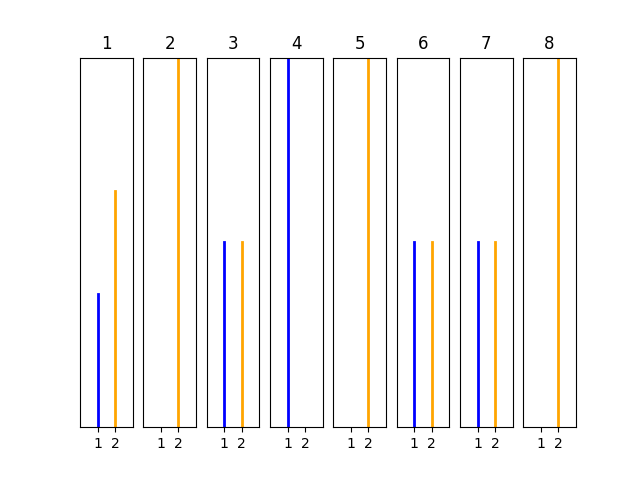
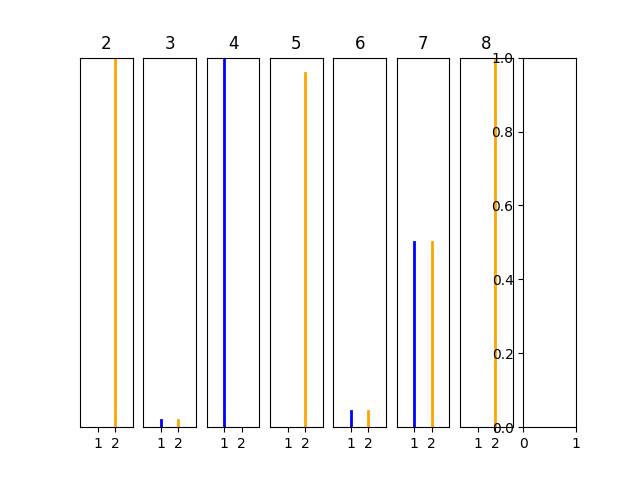
Corrected stats

diff --git a/src/player.py b/src/player.py
@@ -3,13 +3,14 @@ import matplotlib.pyplot as plt
 import progressbar
 import pickle
 import time
+from copy import deepcopy
 
 class cup:
 
-    def __init__(self):
+    def __init__(self,blue=2,yellow=2):
 
-        self.blue = 2
-        self.yellow = 2
+        self.blue = blue
+        self.yellow = blue
 
         return
 
@@ -45,7 +46,7 @@ class game:
 
         self.n_sticks = n_sticks
         self.players = ["computer","trainer"]
-        self.computer = computer_player
+        self.computer = deepcopy(computer_player)
         self.played_numbers = np.zeros(self.n_sticks)
 
         self.check = (self.computer.n_cups == self.n_sticks)
@@ -146,7 +147,7 @@ class game:
         return [new_computer,winner]
     
     
-def train(n_trains:int, n_sticks:int, show_progressbar=True) -> list[player,float]:
+def train(n_trains:int, n_sticks:int, show_progressbar=True, saveplayer=True) -> list[player,float]:
 
     training_player = player(n_cups=n_sticks)
     wins = 0
@@ -190,27 +191,30 @@ def train(n_trains:int, n_sticks:int, show_progressbar=True) -> list[player,floa
 
     fig, axes = plt.subplots(1,training_player.n_cups)
 
-    for i in range(training_player.n_cups):
+    for i in range(training_player.n_cups-1):
         ax = axes[i]
-        ax.plot([1,1],[0,training_player.cups[i].blue/(training_player.cups[i].blue + training_player.cups[i].yellow)],linewidth=2,color='blue')
-        ax.plot([2,2],[0,training_player.cups[i].yellow/(training_player.cups[i].blue + training_player.cups[i].yellow)],linewidth=2,color='orange')
+        ax.plot([1,1],[0,training_player.cups[i+1].blue/(training_player.cups[i].blue + training_player.cups[i].yellow)],linewidth=2,color='blue')
+        ax.plot([2,2],[0,training_player.cups[i+1].yellow/(training_player.cups[i].blue + training_player.cups[i].yellow)],linewidth=2,color='orange')
         ax.set_xlim([0,3])
         ax.xaxis.set_ticks([1,2])
         ax.set_ylim([0,1])
         ax.yaxis.set_ticklabels([])
         ax.yaxis.set_ticks([])
-        ax.set_title(i+1)
+        ax.set_title(i+2)
 
     plt.savefig(f"nn_saves/sticks{n_sticks}_trains{n_trains}_state.png")
+    plt.close()
 
-    with open(f"nn_saves/sticks{n_sticks}_trains{n_trains}.pkl","wb") as f:
-        pickle.dump(training_player,f)
+    if saveplayer:
+
+        with open(f"nn_saves/sticks{n_sticks}_trains{n_trains}.pkl","wb") as f:
+            pickle.dump(training_player,f)
 
     return [training_player,winrate]
 
 if __name__=="__main__":
 
-    train(10,n_sticks=9)
+    train(10,n_sticks=8)
 
 
             

diff --git a/training_stats.py b/training_stats.py
@@ -1,28 +1,35 @@
 import numpy as np
 import matplotlib.pyplot as plt
 
-from src.training_by_hand_utils import train
+from src.player import player, train, game
 
-n_trains = [5,10,20,50,100,200,500]
-n_trainings_per_n_train = 50
-n_sticks = 9
+n_trains = np.arange(1,31)
+n_games = 100
+n_sticks = 8
 
-winrates = np.zeros((len(n_trains),n_trainings_per_n_train))
+winrates = np.zeros((len(n_trains),n_games))
 
 for n in range(len(n_trains)):
-    for i in range(n_trainings_per_n_train):
-        winrate = train(n_trains=n_trains[n],n_sticks=n_sticks,show_progressbar=False)[1]
-        winrates[n,i] = winrate
+
+    NN_n_trains = train(n_trains=n_trains[n],n_sticks=n_sticks,show_progressbar=False,saveplayer=False)[0]
+
+    for i in range(n_games):
+
+        winner = game(computer_player=NN_n_trains,n_sticks=n_sticks).play_game()[1]
+
+        if winner == "computer":
+
+            winrates[n,i] = 1
 
 mean_winrates = np.mean(winrates,axis=1)
-err_winrates = np.std(winrates,axis=1)
+err_winrates = np.std(winrates,axis=1)/np.sqrt(n_games)
 
 plt.errorbar(n_trains,mean_winrates,yerr=err_winrates,fmt='ro ')
 plt.grid()
 plt.xlim([0,1.1*np.max(n_trains)])
 plt.ylim([0,1])
 plt.xlabel("Entraînements",fontsize=15)
-plt.ylabel("Taux de victoires",fontsize=15)
+plt.ylabel(f"Taux de victoires sur {n_games} parties",fontsize=15)
 plt.xticks(fontsize=15)
 plt.yticks(fontsize=15)
 plt.title(f"Ordinateur jouant au jeu de nim ({n_sticks} bâtons)",fontsize=15)

diff --git a/GUI/training_GUI.py b/GUI/training_GUI.py
@@ -17,10 +17,11 @@ from PyQt6.QtWidgets import (
 
 class TrainingWindow(QMainWindow):
 
-    def __init__(self):
+    def __init__(self,language):
         super().__init__()
 
-        self.text = francais.training_NN_GUI_text
+        self.language = language
+        self.text = self.language.training_NN_GUI_text
 
         self.setFixedSize(QSize(500,500))
         self.setStyleSheet("font-size : 25px")
@@ -70,10 +71,10 @@ class TrainingWindow(QMainWindow):
         train(self.n_trains,n_sticks = self.n_sticks)
         return
 
-def run_training():
+def run_training(language):
 
     training_app = QApplication(sys.argv)
-    window = TrainingWindow()
+    window = TrainingWindow(language=language)
     window.show()
     training_app.exec()
 

diff --git a/GUI/nim_against_nn_GUI.py b/GUI/nim_against_nn_GUI.py
@@ -15,10 +15,11 @@ from PyQt6.QtWidgets import (
 
 class GameWindow(QMainWindow):
 
-    def __init__(self,game):
+    def __init__(self,game,language):
         super().__init__()
 
-        self.text = francais.nim_game_GUI_text
+        self.language = language
+        self.text = self.language.nim_game_GUI_text
 
         self.setFixedSize(QSize(500,500))
         self.setStyleSheet("font-size : 25px")
@@ -168,13 +169,13 @@ class GameWindow(QMainWindow):
 
         return
 
-def run_game(game):
+def run_game(game,language):
 
     nim_game = QApplication(sys.argv)
-    window = GameWindow(game=game)
+    window = GameWindow(game=game,language=language)
     window.show()
     nim_game.exec()
 
-    pass
+    return
 
 

diff --git a/game.py b/game.py
@@ -1,13 +1,14 @@
 from GUI.nim_against_nn_GUI import GameWindow, run_game
 from src.nim import nim_game
 from src.player import player
+from texts import francais, english
 import pickle
 
-if __name__=="__main":
+# if __name__=="__main":
 
-    with open("nn_saves/sticks8_trains100.pkl","rb") as f:
-        computer_player = pickle.load(f)
+with open("nn_saves/sticks8_trains100.pkl","rb") as f:
+    computer_player = pickle.load(f)
 
-    game = nim_game(computer_player=computer_player)
+game = nim_game(computer_player=computer_player)
 
-    run_game(game=game)
+run_game(game=game,language=english)

diff --git a/setup.py b/setup.py
@@ -1,0 +1,17 @@
+from cx_Freeze import setup, Executable
+
+# Dependencies are automatically detected, but it might need
+# fine tuning.
+build_options = {'packages': ['numpy'], 'excludes': []}
+
+base = 'gui'
+
+executables = [
+    Executable('game.py', base=base, target_name = 'test-game-NN')
+]
+
+setup(name='Nim-NN',
+      version = '1.0',
+      description = 'Testing nim game as an executable',
+      options = {'build_exe': build_options},
+      executables = executables)

diff --git a/texts/francais.py b/texts/francais.py
@@ -17,7 +17,7 @@ training_NN_GUI_text = {
     "window_title":"Entraînement du réseau de neurones",
     "n_sticks":"Nombre de bâtons dans le jeu",
     "n_max":"Nombre maximum de bâtons enlevés par tour",
-    "n_trains":"Nombre d'entraînement",
+    "n_trains":"Nombre d'entraînemens",
     "games_per_step":"Parties jouées par étape",
     "run_training":"Entraîner"
 }

diff --git a/train.py b/train.py
@@ -1,6 +1,7 @@
 from src.player import player, train
 from GUI.training_GUI import TrainingWindow, run_training
+from texts import english, francais
 
 if __name__=='__main__':
-    # train(100,n_sticks=8)
-    run_training()
+
+    run_training(language=francais)
